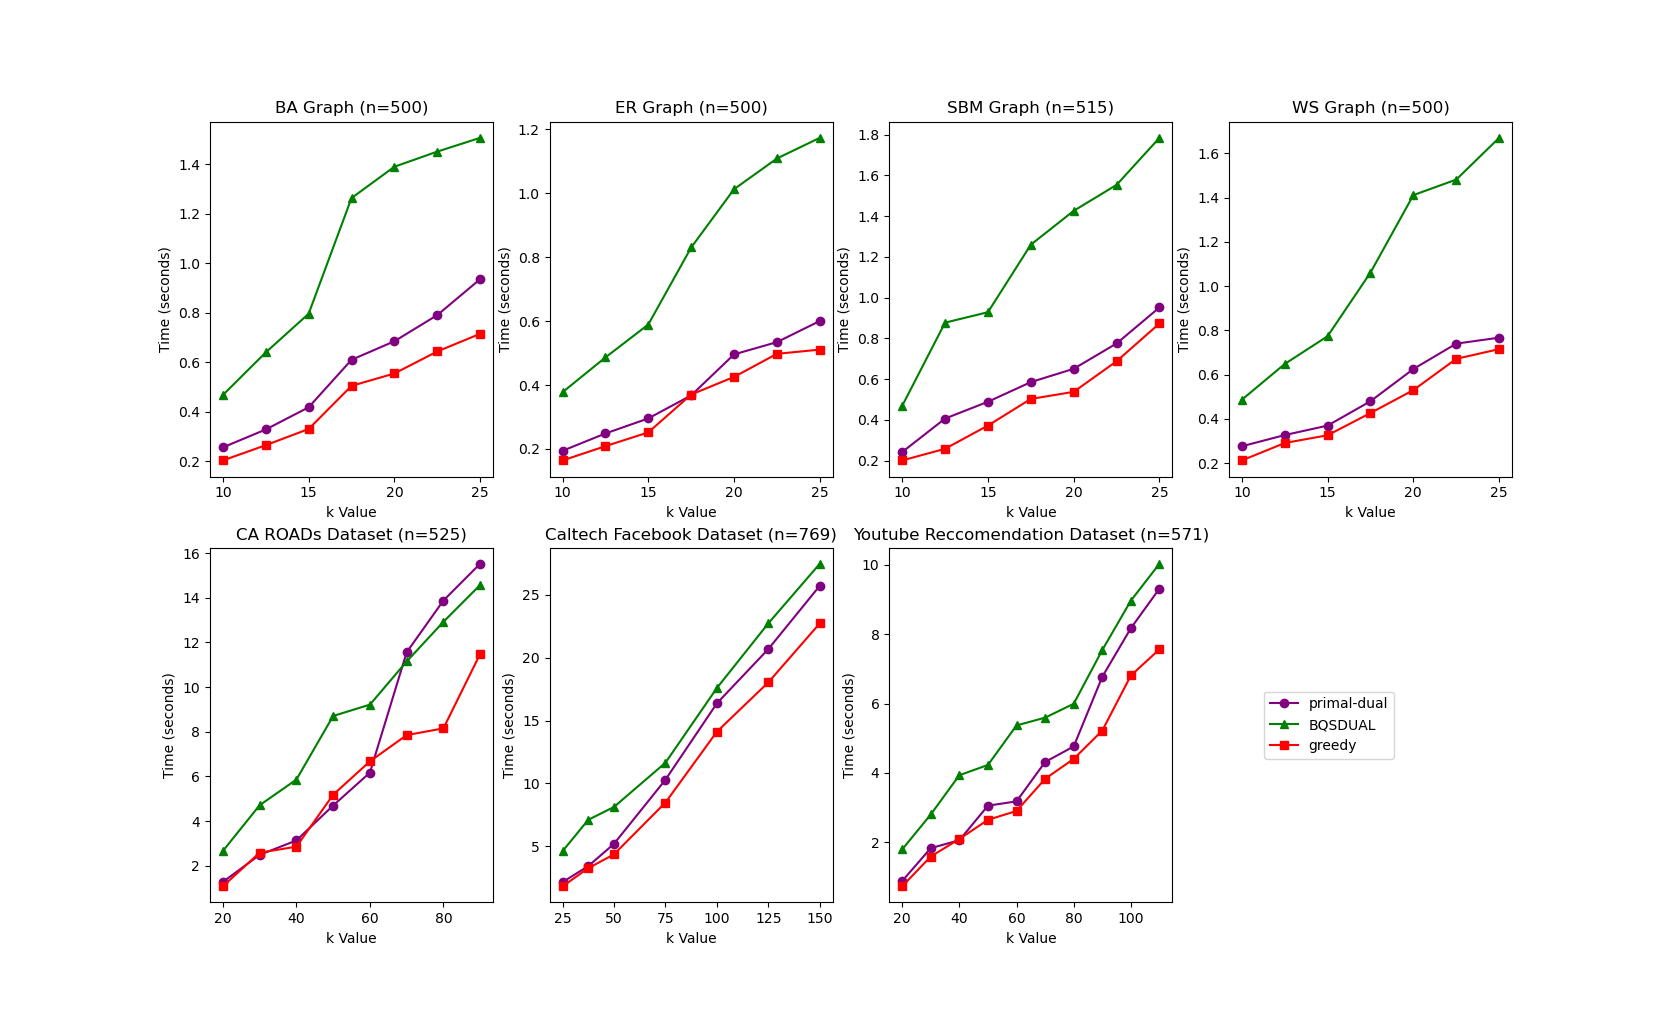
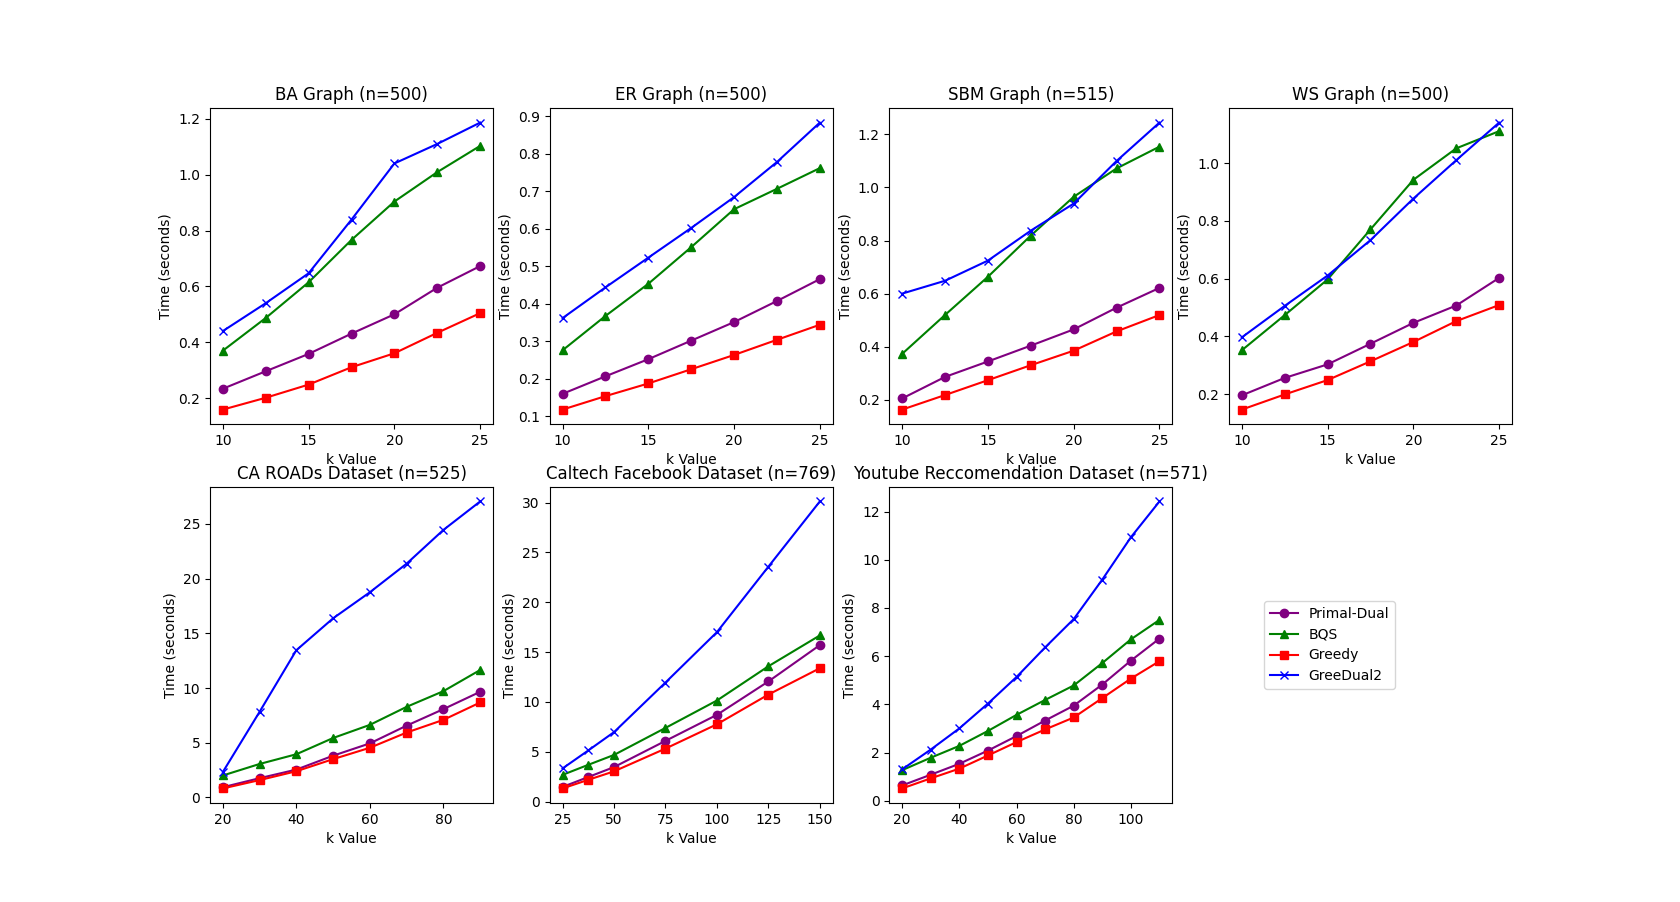
updated visualizations

diff --git a/visuals/time_visualizer.py b/visuals/time_visualizer.py
@@ -23,12 +23,15 @@ for i in range(len(Trials)):
     valPD_vec = []
     dual_vec = []
     valD_vec = []
+    valGLP_vec = []
     queriesG_vec = []
     queriesPD_vec = []
     queriesD_vec = []
+    queriesGLP_vec = []
     timeG_vec = []
     timePD_vec = []
     timeD_vec = []
+    timeGLP_vec = []
     k_vec = []
     n = 0
     # dual,DUAL,greedy,pd,queriesG,queriesPD,queriesD,timeG,timePD,timeD,k,n,trial
@@ -39,48 +42,59 @@ for i in range(len(Trials)):
       valPD_vec_sub = []
       dual_vec_sub = []
       valD_vec_sub = []
+      valGLP_vec_sub = []
       queriesG_vec_sub = []
       queriesPD_vec_sub = []
       queriesD_vec_sub = []
+      queriesGLP_vec_sub = []
       timeG_vec_sub = []
       timePD_vec_sub = []
       timeD_vec_sub = []
+      timeGLP_vec_sub = []
       k_vec_sub = []
       for row in reader_greedy:
         valG_vec_sub.append(float(row[2]))
         valPD_vec_sub.append(float(row[3]))
         valD_vec_sub.append(float(row[1]))
         dual_vec_sub.append(float(row[0]))
-        queriesG_vec_sub.append(float(row[4]))
-        queriesPD_vec_sub.append(float(row[5]))
-        queriesD_vec_sub.append(float(row[6]))
-        timeG_vec_sub.append(float(row[7]))
-        timePD_vec_sub.append(float(row[8]))
-        timeD_vec_sub.append(float(row[9]))
-        k_vec_sub.append(float(row[10]))
+        valGLP_vec_sub.append(float(row[4]))
+        queriesG_vec_sub.append(float(row[5]))
+        queriesPD_vec_sub.append(float(row[6]))
+        queriesD_vec_sub.append(float(row[7]))
+        queriesGLP_vec_sub.append(float(row[8]))
+        timeG_vec_sub.append(float(row[9]))
+        timePD_vec_sub.append(float(row[10]))
+        timeD_vec_sub.append(float(row[11]))
+        timeGLP_vec_sub.append(float(row[12]))
+        k_vec_sub.append(float(row[13]))
         if len(k_vec_sub) % 5 == 0:
           valG_vec.append(np.median(valG_vec_sub))
           valPD_vec.append(np.median(valPD_vec_sub))
           valD_vec.append(np.median(valD_vec_sub))
           dual_vec.append(np.median(dual_vec_sub))
+          valGLP_vec.append(np.median(valG_vec_sub))
           queriesG_vec.append(np.median(queriesG_vec_sub))
           queriesPD_vec.append(np.median(queriesPD_vec_sub))
           queriesD_vec.append(np.median(queriesD_vec_sub))
+          queriesGLP_vec.append(np.median(queriesG_vec_sub))
           timeG_vec.append(np.median(timeG_vec_sub))
           timePD_vec.append(np.median(timePD_vec_sub))
           timeD_vec.append(np.median(timeD_vec_sub))
+          timeGLP_vec.append(np.median(timeGLP_vec_sub))
           k_vec.append(np.median(k_vec_sub))
-        n = int(row[11])
+        n = int(row[14])
     
     ### Time vs. K value
     ax1 = int(i / 4)
     ax2 = i % 4
     X = k_vec
-    ax[ax1, ax2].plot(X, timePD_vec, color = 'purple', label = 'primal-dual', linestyle='-', marker='o')
-    ax[ax1, ax2].plot(X, timeD_vec, color = 'g', label = 'BQSDUAL', linestyle='-', marker='^')
-    ax[ax1, ax2].plot(X, timeG_vec, color = 'r', label = 'greedy', linestyle='-', marker='s')
-    ax[ax1, ax2].set(xlabel='k Value', ylabel='Time (seconds)')
-    ax[ax1, ax2].set_title(Trial_Names[i] + " (n=" +str(n)+")")
+
+    ax[ax1,ax2].plot(X, timePD_vec, color = 'purple', label = 'Primal-Dual', linestyle='-', marker='o')
+    ax[ax1,ax2].plot(X, timeD_vec, color = 'g', label = 'BQS', linestyle='-', marker='^')
+    ax[ax1,ax2].plot(X, timeG_vec, color = 'r', label = 'Greedy', linestyle='-', marker='s')
+    ax[ax1,ax2].plot(X, timeGLP_vec, color = 'b', label = 'GreeDual2', linestyle='-', marker='x')
+    ax[ax1,ax2].set(xlabel='k Value', ylabel='Time (seconds)')
+    ax[ax1,ax2].set_title(Trial_Names[i] + " (n=" +str(n)+")")
 
 figure.delaxes(ax[1, 3])
 ax[1][2].legend(loc='center left', bbox_to_anchor=(1.3, 0.5))
